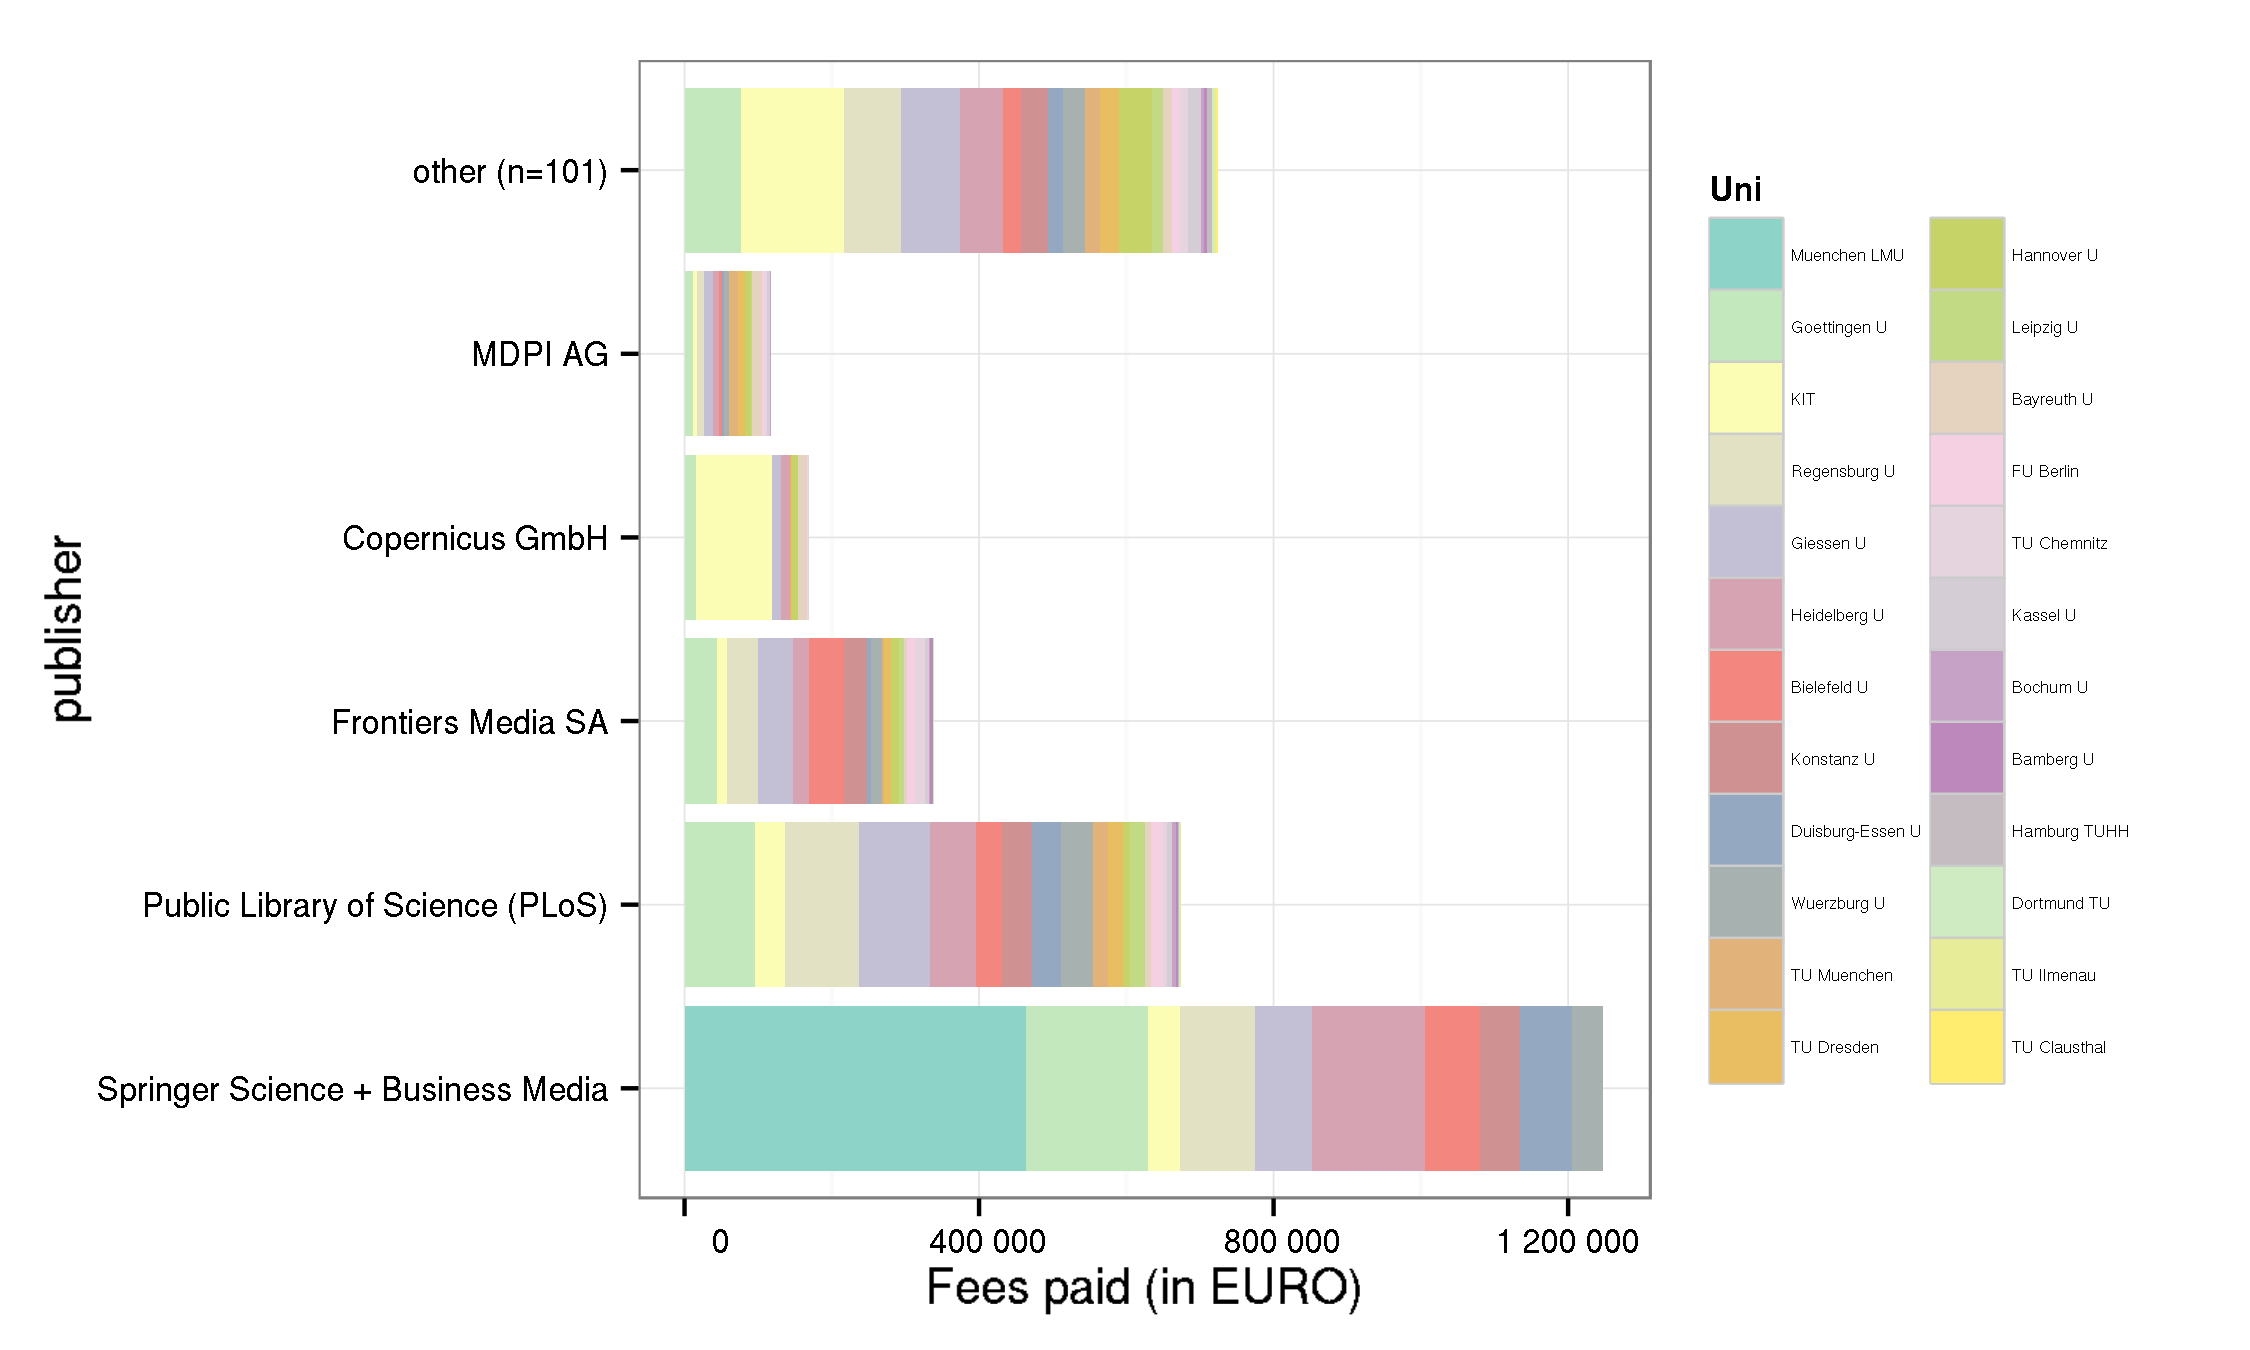
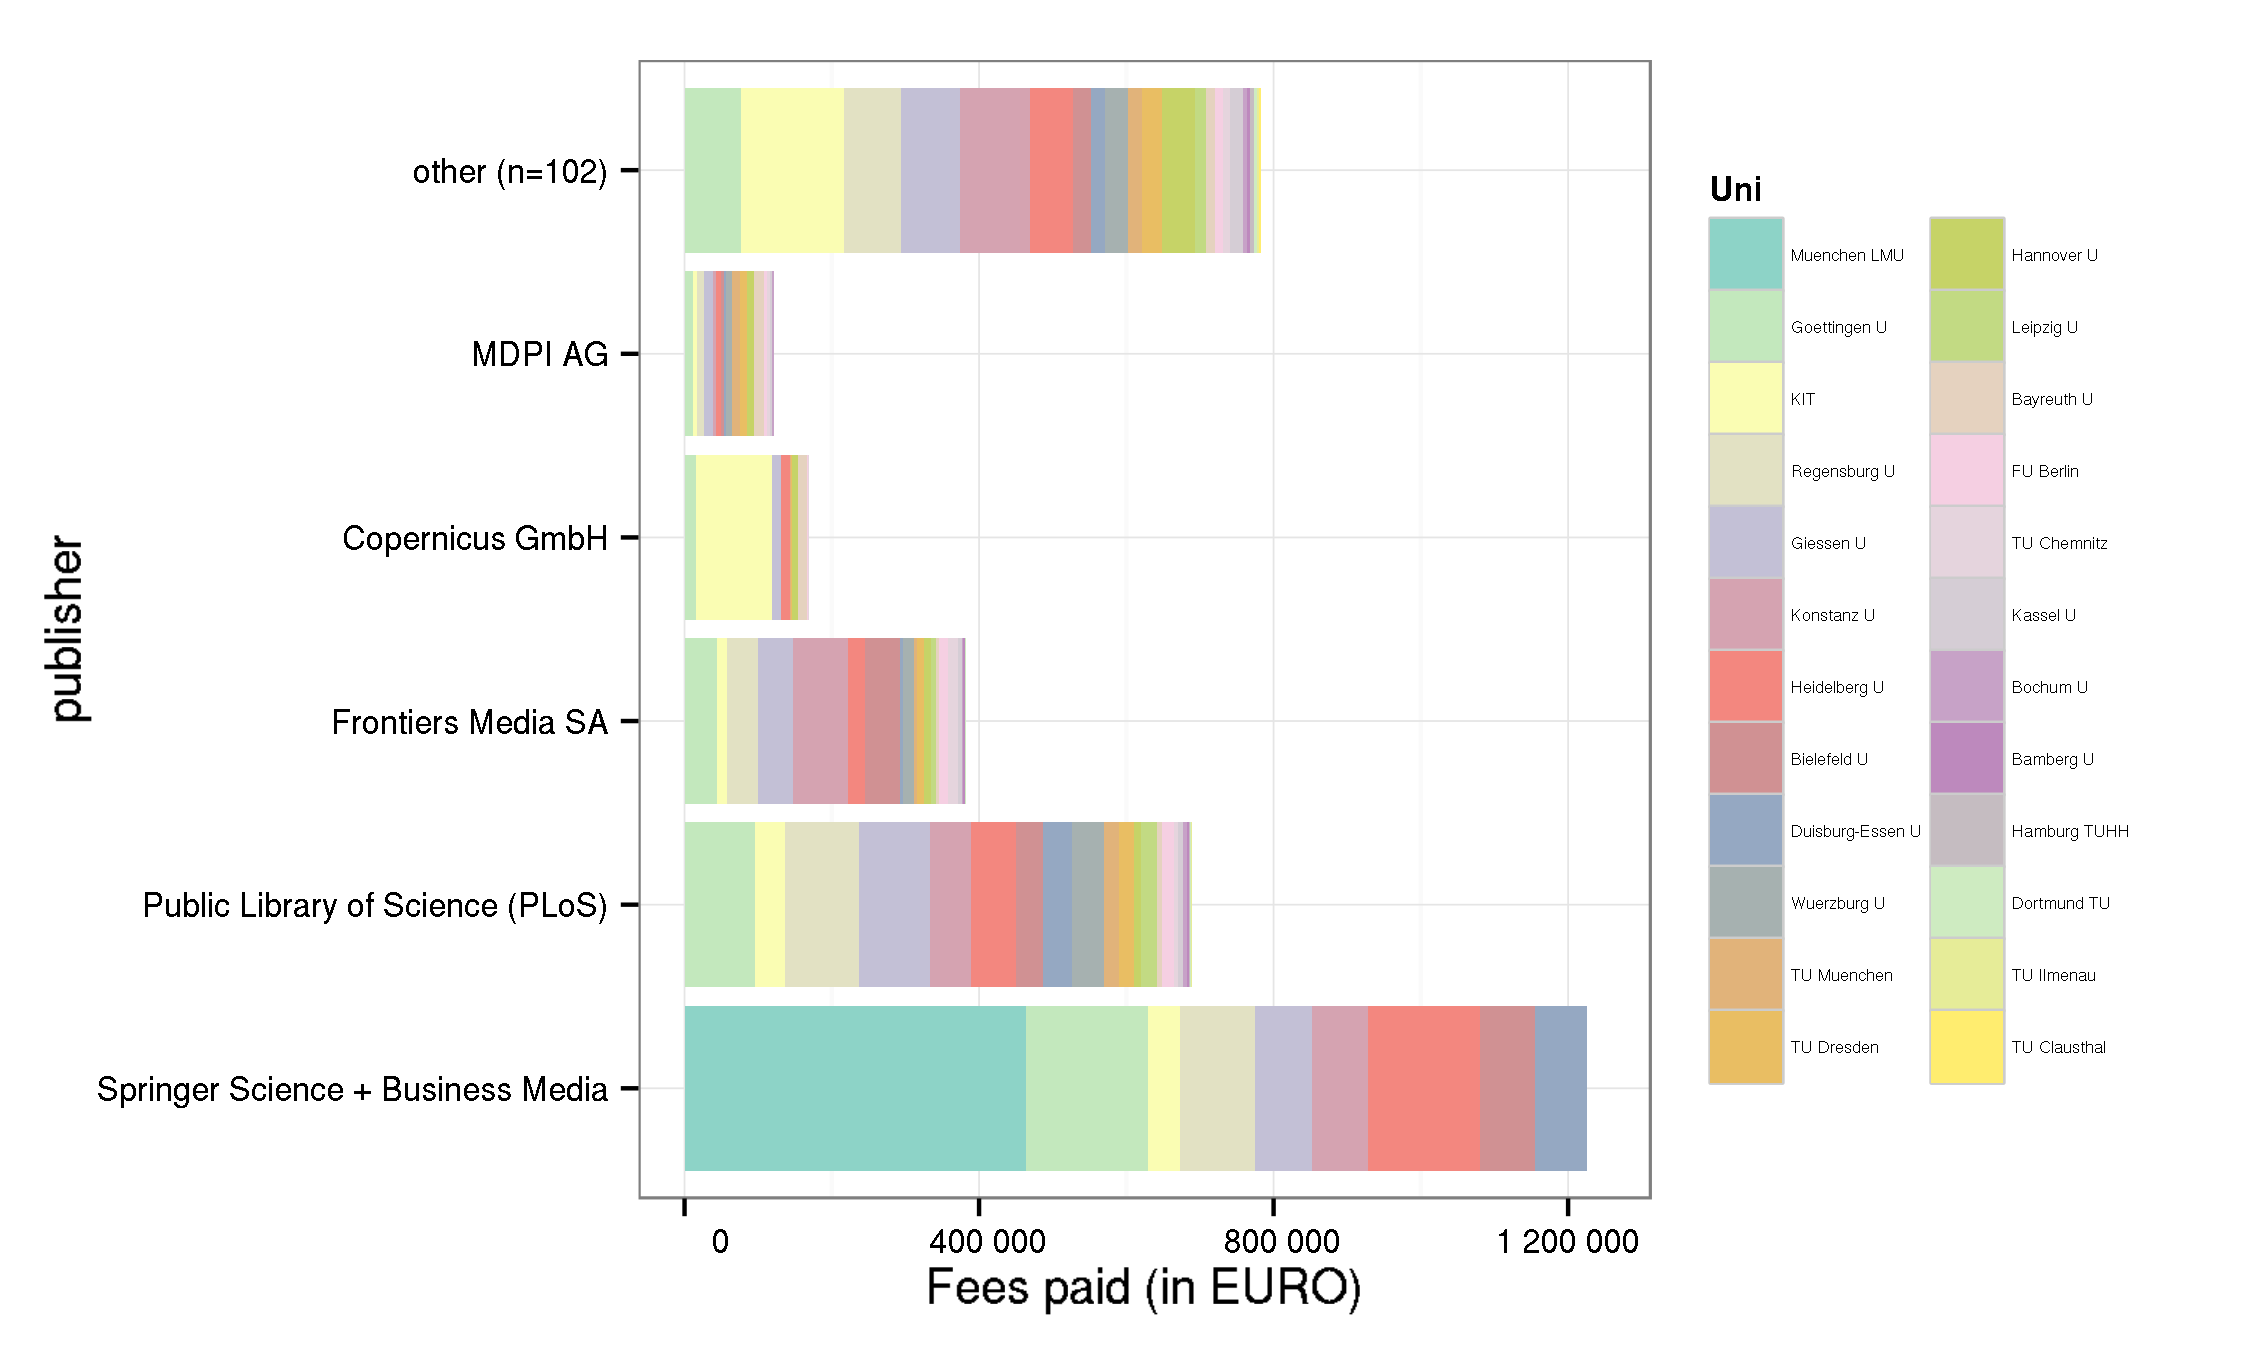
Added APC data for Konstanz (2015)

diff --git a/README.md b/README.md
@@ -60,13 +60,13 @@ ation/library)
 
 Information on both open access journal articles and open access publication of articles in toll-access journals ("hybrid") are provided.
 
-In total,  6 935 617 € for  5 501 articles were paid by the participating unviversities. Average  fee is 1 260.8 € and the median 1 198 €.
+In total,  7 076 987 € for  5 594 articles were paid by the participating unviversities. Average  fee is 1 265.1 € and the median 1 200 €.
 
 ### Open Access Journals
 
 
 
-At the moment, the dataset releases information on 5 463 articles in open access journals which charge publication fees. Total expenditure amounts to  6 870 350 €. Average  fee is 1 257.6 € and the median 1 196 €.
+At the moment, the dataset releases information on 5 556 articles in open access journals which charge publication fees. Total expenditure amounts to  7 011 719 €. Average  fee is 1 262 € and the median 1 198 €.
 
 View dataset on [GitHub](https://github.com/OpenAPC/openapc-de/blob/master/data/apc_de.csv).
 
@@ -90,7 +90,7 @@ View dataset on [GitHub](https://github.com/OpenAPC/openapc-de/blob/master/data/
 |INM - Leibniz-Institut für Neue Materialien |        4|              4266|          1067|   1175|
 |Kassel U                                    |       35|             35550|          1016|   1142|
 |KIT                                         |      293|            345311|          1179|   1176|
-|Konstanz U                                  |      131|            163374|          1247|   1260|
+|Konstanz U                                  |      224|            304744|          1360|   1333|
 |Leipzig U                                   |       60|             79603|          1327|   1305|
 |MDC                                         |       23|             41464|          1803|   1212|
 |MPG                                         |     2503|           3176412|          1269|   1156|
